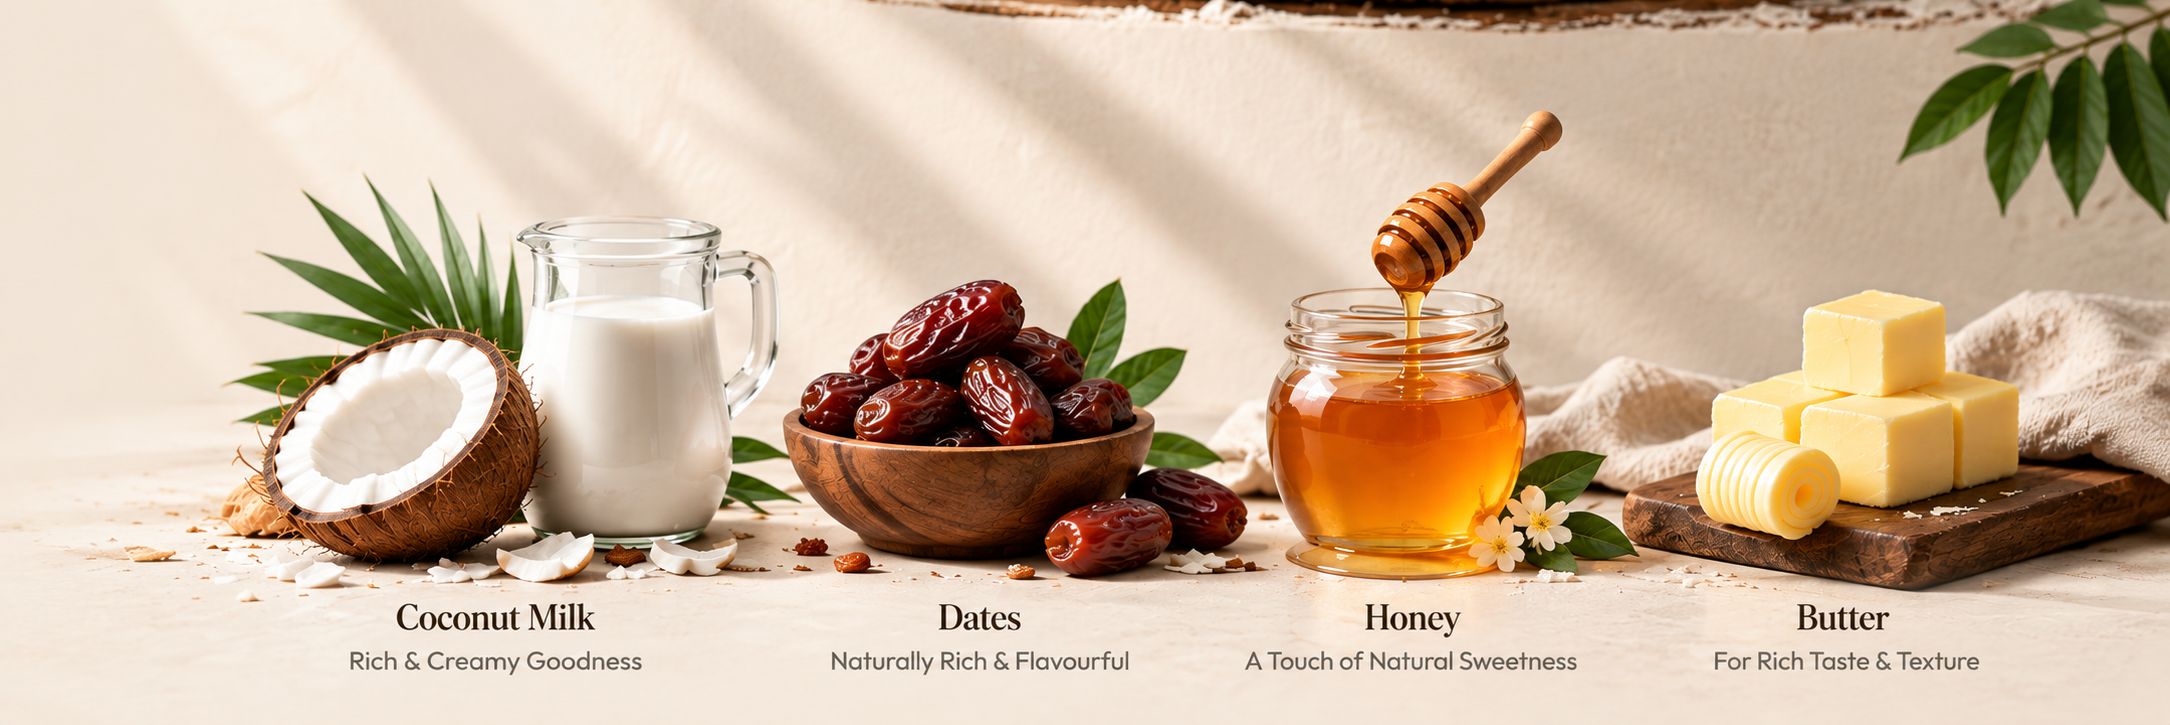
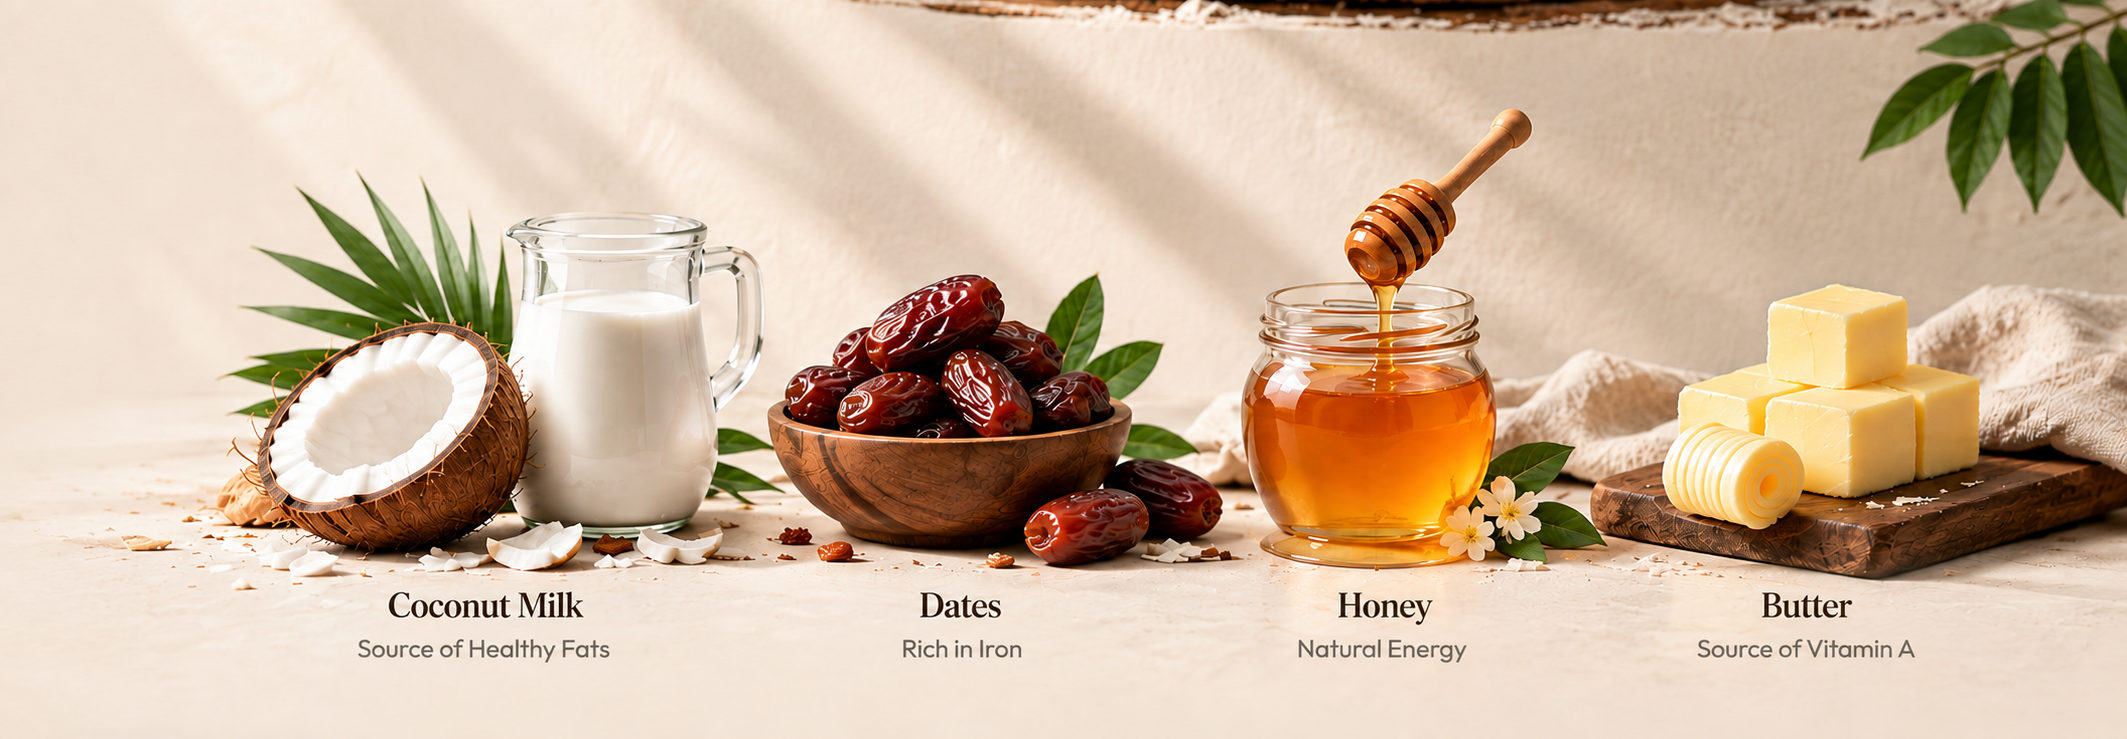
feat: Enhance TuniHome component with improved bread showcase and ingredient benefits; update styles for better responsiveness

diff --git a/src/styles/components/TuniHome.css b/src/styles/components/TuniHome.css
@@ -139,11 +139,11 @@
 .app-shell[data-theme="dark"] .lifestyle-section{background:#1a2b24}.app-shell[data-theme="dark"] .lifestyle-grid small{color:#b7c7c0}.app-shell[data-theme="dark"] .lifestyle-grid>div>span{background:#4a4226}.app-shell[data-theme="dark"] .final-cta{background:#071a14}
 
 /* Cinematic homepage hero and editorial introduction. */
-.tuni-film{position:relative;isolation:isolate;overflow:hidden;box-sizing:border-box;min-height:680px;height:calc(100svh - 98px);max-height:900px;display:flex;align-items:center;padding:110px max(6vw,70px) 50px;background:#241e15;color:#fffdf8}
+.tuni-film{position:relative;isolation:isolate;overflow:hidden;box-sizing:border-box;min-height:min(680px,calc(100svh - 128px));height:calc(100svh - 128px);max-height:900px;display:flex;align-items:center;padding:110px max(6vw,70px) 50px;background:#241e15;color:#fffdf8}
 .tuni-film__media,.tuni-film__overlay{position:absolute;inset:0;pointer-events:none}
 .tuni-film__media{z-index:-2}
 .tuni-film__media video,.tuni-film__media img{display:block;width:100%;height:100%;object-fit:cover;object-position:center}
-.tuni-film__overlay{z-index:-1;background:linear-gradient(90deg,rgba(20,16,10,.70) 0%,rgba(20,16,10,.48) 42%,rgba(20,16,10,.18) 72%,rgba(20,16,10,.10) 100%),linear-gradient(rgba(20,16,10,.08),rgba(20,16,10,.08))}
+.tuni-film__overlay{z-index:-1;background:linear-gradient(90deg,rgba(20,16,10,.52) 0%,rgba(20,16,10,.32) 42%,rgba(20,16,10,.08) 72%,rgba(20,16,10,.03) 100%)}
 .tuni-film__copy{width:min(650px,50vw);min-width:0;text-align:left}
 .tuni-film__label{display:block;margin-bottom:24px;font-size:14px;font-weight:600;letter-spacing:4px;color:#d7b36a}
 .tuni-home .tuni-film h1{font-size:clamp(56px,5.5vw,88px);font-weight:600;line-height:1.02;letter-spacing:-.045em;color:#fffdf8;text-shadow:0 2px 20px rgba(0,0,0,.18)}
@@ -166,8 +166,9 @@
 .tuni-philosophy__link:hover{color:#936821}
 .tuni-philosophy__link:focus-visible{outline:2px solid #173f32;outline-offset:5px}
 @media(min-width:901px) and (max-width:1200px){.tuni-home .tuni-film h1{font-size:clamp(56px,5.3vw,64px)}.tuni-film__copy{width:560px}}
-@media(max-width:900px){.tuni-film{height:600px;min-height:600px;padding:100px 6vw 50px}.tuni-film__copy{width:min(600px,100%)}.tuni-home .tuni-film h1{font-size:clamp(48px,7.3vw,66px)}}
-@media(max-width:640px){.tuni-film{height:640px;min-height:620px;max-height:none;align-items:flex-end;padding:70px 24px 48px}.tuni-film__media video,.tuni-film__media img{object-position:60% center}.tuni-film__overlay{background:linear-gradient(0deg,rgba(20,16,10,.82),rgba(20,16,10,.52) 55%,rgba(20,16,10,.12)),linear-gradient(90deg,rgba(20,16,10,.20),transparent)}.tuni-film__copy{width:100%}.tuni-film__label{margin-bottom:20px;font-size:13px}.tuni-home .tuni-film h1{font-size:clamp(36px,9.8vw,54px);letter-spacing:-.05em}.tuni-film__copy>p{font-size:17px;margin:22px 0 26px;max-width:440px}.tuni-film__actions{flex-direction:column;max-width:360px;gap:12px}.tuni-film__actions .tuni-btn{justify-content:space-between;width:100%}.tuni-philosophy{padding:52px 24px}.tuni-philosophy p{font-size:15px}.tuni-philosophy__ingredients{font-size:10px;letter-spacing:1px}.tuni-philosophy__ingredients li+li::before{padding:0 8px}}
+@media(max-width:1150px){.tuni-film{height:calc(100svh - 102px);min-height:min(600px,calc(100svh - 102px))}}
+@media(max-width:900px){.tuni-film{padding:100px 6vw 50px}.tuni-film__copy{width:min(600px,100%)}.tuni-home .tuni-film h1{font-size:clamp(48px,7.3vw,66px)}}
+@media(max-width:640px){.tuni-film{height:640px;min-height:620px;max-height:none;align-items:flex-end;padding:70px 24px 48px}.tuni-film__media video,.tuni-film__media img{object-position:60% center}.tuni-film__overlay{background:linear-gradient(0deg,rgba(20,16,10,.68),rgba(20,16,10,.35) 55%,rgba(20,16,10,.06)),linear-gradient(90deg,rgba(20,16,10,.12),transparent)}.tuni-film__copy{width:100%}.tuni-film__label{margin-bottom:20px;font-size:13px}.tuni-home .tuni-film h1{font-size:clamp(36px,9.8vw,54px);letter-spacing:-.05em}.tuni-film__copy>p{font-size:17px;margin:22px 0 26px;max-width:440px}.tuni-film__actions{flex-direction:column;max-width:360px;gap:12px}.tuni-film__actions .tuni-btn{justify-content:space-between;width:100%}.tuni-philosophy{padding:52px 24px}.tuni-philosophy p{font-size:15px}.tuni-philosophy__ingredients{font-size:10px;letter-spacing:1px}.tuni-philosophy__ingredients li+li::before{padding:0 8px}}
 @media(prefers-reduced-motion:reduce){.tuni-film__actions .tuni-btn,.tuni-philosophy__link{transition:none}.tuni-film__actions .tuni-btn:hover{transform:none}}
 
 /* Legacy photographic hero styles. */
@@ -229,26 +230,42 @@
 @media(max-width:760px){.tuni-brand-story{display:block;min-height:0;padding-top:230px;background-image:linear-gradient(180deg,rgba(23,79,62,0) 0%,rgba(23,79,62,.15) 120px,#174f3e 310px),var(--story-image);background-size:100% 100%,auto 340px;background-position:left top}.tuni-brand-story__panel{width:100%;padding:42px 6%;margin:0}.tuni-home .tuni-brand-story h2{font-size:clamp(2.5rem,8vw,3.4rem)}}
 @media(prefers-reduced-motion:reduce){.tuni-brand-story__cta svg{transition:none}}
 
-/* Compact editorial bread showcase; preserve the existing markup and assets. */
-#breads{padding:55px 6%;background:#f7f1e7}
-#breads .breads-grid{width:100%;max-width:1440px;margin:0 auto;grid-template-columns:.8fr 1fr 1fr;gap:30px;align-items:center}
-#breads .breads-intro{grid-column:auto;align-items:flex-start;text-align:left;padding:0}
-#breads .breads-intro .eyebrow{margin-bottom:14px}
-#breads .breads-intro h2{font-size:clamp(2.3rem,3.3vw,3.6rem);line-height:1.04}
-#breads .breads-intro p{margin:18px 0 22px;font-size:.95rem;line-height:1.6}
-#breads .breads-intro .tuni-btn{padding:12px 18px;font-size:.9rem}
-#breads .bread-card{align-self:stretch;background:transparent;box-shadow:none;border:0;border-left:1px solid rgba(59,33,24,.16);border-radius:0;padding-left:30px;overflow:visible}
-#breads .bread-card__image{width:100%;height:210px;border-radius:24px 24px 6px 6px;overflow:hidden;background:transparent}
-#breads .bread-card__image img{display:block;width:100%;height:100%;object-fit:cover;padding:0}
-#breads .bread-card>div:last-child{padding:12px 0 0}
-#breads .bread-number{color:#c9933a;font-size:.68rem}
-#breads .bread-card h3{font-size:1.65rem;margin:5px 0 8px;line-height:1.1}
-#breads .bread-card p{min-height:0;margin:0 0 12px;font-size:.85rem;line-height:1.5}
-#breads .bread-card button{font-size:.88rem}
+/* Premium editorial bread showcase. */
+#breads{position:relative;padding:64px clamp(24px,4.5vw,76px);background:#f7f1e7;overflow:hidden}
+#breads::before,#breads::after{content:'';position:absolute;width:180px;height:260px;opacity:.07;pointer-events:none;background:radial-gradient(ellipse at center,#477364 0 28%,transparent 30%);background-size:52px 78px;transform:rotate(-24deg)}
+#breads::before{left:-96px;top:35px}#breads::after{right:-120px;bottom:-70px;transform:rotate(26deg)}
+#breads .breads-grid{position:relative;z-index:1;width:100%;max-width:1500px;margin:0 auto;grid-template-columns:minmax(250px,30fr) minmax(0,35fr) minmax(0,35fr);gap:24px;align-items:stretch}
+#breads .breads-intro{grid-column:auto;align-items:flex-start;text-align:left;justify-content:center;padding:28px clamp(4px,1vw,18px) 28px 0}
+#breads .breads-intro .eyebrow{margin-bottom:18px;color:#c9933a}
+#breads .breads-intro h2{font-size:clamp(3.1rem,4vw,4.7rem);line-height:.86;letter-spacing:-.04em;color:#173f32}
+#breads .breads-intro>p{max-width:390px;margin:24px 0;color:#55534e;font-size:.94rem;line-height:1.55}
+#breads .breads-intro__values{display:grid;grid-template-columns:repeat(3,minmax(0,1fr));width:100%;max-width:405px;gap:10px;margin:2px 0 28px}
+#breads .breads-intro__values>span{display:grid;justify-items:center;align-content:start;gap:8px;text-align:center;color:#35483f}
+#breads .breads-intro__values i{display:grid;place-items:center;width:50px;height:50px;border:1px solid rgba(201,147,58,.72);border-radius:50%;color:#173f32;font-style:normal}
+#breads .breads-intro__values small{font-size:.7rem;line-height:1.3}
+#breads .breads-intro .tuni-btn{padding:14px 24px;border-radius:999px;font-size:.88rem}
+#breads .bread-card{display:flex;flex-direction:column;align-self:stretch;min-width:0;padding:12px;background:#fffdf8;border:1px solid rgba(201,147,58,.18);border-radius:24px;overflow:hidden;box-shadow:0 12px 34px rgba(45,40,26,.06);transition:transform .28s ease,box-shadow .28s ease}
+#breads .bread-card:hover{transform:translateY(-4px);box-shadow:0 16px 38px rgba(45,40,26,.09)}
+#breads .bread-card__image{position:relative;width:100%;height:300px;border-radius:18px;overflow:hidden;background:#f3eee4}
+#breads .bread-card__image img{display:block;width:100%;height:100%;object-fit:cover;object-position:center;padding:0;transition:transform .28s ease}
+#breads .bread-card:hover .bread-card__image img{transform:scale(1.02)}
+#breads .bread-number{position:absolute;z-index:2;left:18px;top:15px;color:#b6812d;font-size:.78rem;font-weight:600;letter-spacing:.14em}
+#breads .bread-card__badge{position:absolute;z-index:2;right:14px;top:14px;display:grid;place-items:center;width:66px;height:66px;box-sizing:border-box;border:1px solid rgba(201,147,58,.75);border-radius:50%;background:rgba(255,253,248,.94);color:#173f32;font-size:.57rem;font-weight:700;line-height:1.1;text-align:center;text-transform:uppercase}
+#breads .bread-card__badge svg{color:#477364}
+#breads .bread-card__content{display:flex;flex:1;flex-direction:column;padding:18px 8px 4px}
+#breads .bread-card h3{font-size:clamp(1.75rem,2.2vw,2.2rem);margin:0 0 7px;line-height:1.05;color:#173f32}
+#breads .bread-card p{min-height:0;margin:0;color:#55534e;font-size:.82rem;line-height:1.45}
+#breads .bread-card__highlights{display:grid;grid-template-columns:repeat(3,minmax(0,1fr));gap:0;margin:18px 0 14px;border-top:1px solid rgba(201,147,58,.14);border-bottom:1px solid rgba(201,147,58,.14)}
+#breads .bread-card__highlights span{display:flex;align-items:center;gap:7px;min-width:0;padding:12px 8px;border-right:1px solid rgba(201,147,58,.18);color:#48544e;font-size:.64rem;line-height:1.25}
+#breads .bread-card__highlights span:last-child{border-right:0}
+#breads .bread-card__highlights svg{flex:0 0 auto;color:#b6812d}
+#breads .bread-card button{font-size:.82rem}
 .app-shell[data-theme="dark"] #breads{background:#111d19}
-.app-shell[data-theme="dark"] #breads .bread-card{border-color:rgba(247,241,231,.2)}
-@media(max-width:1000px){#breads .breads-grid{grid-template-columns:1fr 1fr;gap:28px}#breads .breads-intro{grid-column:1/-1;align-items:center;text-align:center;max-width:600px;margin:0 auto}#breads .bread-card{padding-left:0;border-left:0}#breads .bread-card:last-child{padding-left:28px;border-left:1px solid rgba(59,33,24,.16)}}
-@media(max-width:640px){#breads{padding:40px 6%}#breads .breads-grid{grid-template-columns:1fr;gap:26px}#breads .breads-intro h2{font-size:2.4rem}#breads .bread-card,#breads .bread-card:last-child{padding:24px 0 0;border-left:0;border-top:1px solid rgba(59,33,24,.16)}#breads .bread-card__image{height:220px}}
+.app-shell[data-theme="dark"] #breads .bread-card{background:#1b2b25;border-color:rgba(247,241,231,.2)}
+.app-shell[data-theme="dark"] #breads .breads-intro h2,.app-shell[data-theme="dark"] #breads .bread-card h3{color:#edf5f0}
+.app-shell[data-theme="dark"] #breads .breads-intro>p,.app-shell[data-theme="dark"] #breads .bread-card p,.app-shell[data-theme="dark"] #breads .bread-card__highlights span,.app-shell[data-theme="dark"] #breads .breads-intro__values>span{color:#b7c7c0}
+@media(max-width:1050px){#breads .breads-grid{grid-template-columns:1fr 1fr;gap:24px}#breads .breads-intro{grid-column:1/-1;align-items:center;text-align:center;max-width:720px;margin:0 auto;padding:0 0 14px}#breads .breads-intro>p{max-width:600px}#breads .bread-card__image{height:280px}}
+@media(max-width:680px){#breads{padding:46px 20px}#breads .breads-grid{grid-template-columns:1fr;gap:24px}#breads .breads-intro h2{font-size:clamp(2.8rem,14vw,4rem)}#breads .breads-intro__values{gap:5px}#breads .breads-intro__values i{width:46px;height:46px}#breads .breads-intro__values small{font-size:.64rem}#breads .bread-card{border-radius:20px;padding:10px}#breads .bread-card__image{height:clamp(230px,68vw,280px)}#breads .bread-card__content{padding:18px 5px 5px}#breads .bread-card__highlights span{padding:11px 5px;font-size:.59rem;gap:4px}}
 
 /* Match Our Promise to the forest-green palette of Our Story. */
 #quality,#quality .quality-copy{background:#174f3e;color:#f7f1e7}
@@ -262,8 +279,8 @@
 #quality .quality-photo::after{background:linear-gradient(90deg,rgba(23,79,62,0) 0%,rgba(23,79,62,.05) 35%,rgba(23,79,62,.4) 62%,rgba(23,79,62,.85) 84%,#174f3e 100%);pointer-events:none}
 @media(max-width:900px){#quality .quality-photo::after{background:linear-gradient(180deg,rgba(23,79,62,0) 0%,rgba(23,79,62,.05) 35%,rgba(23,79,62,.4) 62%,rgba(23,79,62,.85) 84%,#174f3e 100%)}}
 
-.bread-card__actions{display:flex;align-items:center;justify-content:space-between;gap:16px;flex-wrap:wrap;margin-top:18px}
-.bread-card .bread-card__add{display:inline-flex;justify-content:center;padding:12px 20px;border:1px solid #173f32;border-radius:6px;background:#173f32;color:#fffdf8;font-size:.85rem;line-height:1.3}
+.bread-card__actions{display:flex;align-items:center;justify-content:space-between;gap:16px;flex-wrap:wrap;margin-top:auto;padding-top:8px}
+.bread-card .bread-card__add{display:inline-flex;align-items:center;justify-content:center;padding:13px 20px;border:1px solid #173f32;border-radius:14px;background:#173f32;color:#fffdf8;font-size:.85rem;line-height:1.3;transition:transform .25s ease,background .25s ease}
 .bread-card .bread-card__add:hover{background:#245743}
 .bread-card .bread-card__add:disabled{opacity:.6;cursor:wait}
 .bread-card .bread-card__add:focus-visible{outline:2px solid #c9933a;outline-offset:3px}

diff --git a/src/components/TuniHome.jsx b/src/components/TuniHome.jsx
@@ -1,7 +1,7 @@
 import { useEffect, useState } from "react";
 import { apiRequest, getProductName } from "../lib/api";
 import {
-  ArrowRight, Ban, Droplets, Heart, Leaf,
+  ArrowRight, Ban, Droplets, Heart, Leaf, ShoppingCart,
   ShieldCheck, Sprout, Sun, Wheat as WheatIcon,
 } from "lucide-react";
 import heroVisual from "../asset/01_hero_product_bread.png";
@@ -61,7 +61,7 @@ export default function TuniHome({ register, onNavigate, whatsappNumber, onAddTo
     return () => preference.removeEventListener("change", update);
   }, []);
   const go = (page) => onNavigate(page);
-  const radialIngredients = [[coconutIngredient, "Coconut Milk", "Creamy richness"], [honeyIngredient, "Honey", "Golden sweetness"], [butterIngredient, "Butter", "Smooth texture"], [wheatIngredient, "Wheat", "Everyday grain"], [datesIngredient, "Dates", "Natural sweetness"]];
+  const radialIngredients = [[coconutIngredient, "Coconut Milk", "Source of Healthy Fats"], [honeyIngredient, "Honey", "Natural Energy"], [butterIngredient, "Butter", "Source of Vitamin A"], [wheatIngredient, "Wheat", "Rich in Fiber"], [datesIngredient, "Dates", "Rich in Iron"]];
   const ingredientBenefits = [[Leaf,"Wholesome Ingredients","Pure & Natural"],[Heart,"Better Nutrition","For a Healthier You"],[Sprout,"Tradition Meets Modern Living","A Perfect Balance"],[Sun,"Goodness in Every Slice","Everyday, Naturally"]];
   const nutrition = [["Energy", "277 kcal / 100g"], ["Carbohydrate", "58.7g"], ["Protein", "6.8g"], ["Dietary Fiber", "4g"], ["Total Sugar", "10g"], ["Fat", "2g"], ["Sodium", "0.3g"], ["Cholesterol", "0.00g"]];
   const qualities = ["No Vanaspati", "No Artificial Compromise", "No Class 2 & 3 Preservatives", "Carefully Selected Ingredients"];
@@ -111,9 +111,25 @@ export default function TuniHome({ register, onNavigate, whatsappNumber, onAddTo
     <section className="breads-section" id="breads" ref={register}>
       <div className="bread-cart-message" role="status" aria-live="polite">{cartMessage}</div>
       <div className="tuni-wrap breads-grid">
-        <div className="breads-intro"><span className="eyebrow">Our Breads</span><h2>Meet Tuni Breads.</h2><p>Two everyday favourites, baked with care for your family.</p><Button onClick={() => go("products")}>View Our Breads</Button></div>
-        <article className="bread-card"><div className="bread-card__image bread-card__image--wheat"><img src={wheatBreadImage} alt="Fresh sliced Tuni Wheat Bread" /></div><div><span className="bread-number">01</span><h3>Tuni Wheat Bread</h3><p>Wholesome wheat bread made for everyday meals.</p><div className="bread-card__actions"><button onClick={() => go("products")}>Know More <ArrowRight size={14}/></button><button className="bread-card__add" disabled={Boolean(addingBread)} onClick={() => addBread("wheat")} aria-label="Add Tuni wheat bread to cart">{addingBread === "wheat" ? "Adding…" : "Add to Cart"}</button></div></div></article>
-        <article className="bread-card"><div className="bread-card__image"><img src={whiteBreadImage} alt="Fresh sliced Tuni White Bread" /></div><div><span className="bread-number">02</span><h3>Tuni White Bread</h3><p>Soft, fresh bread perfect for toast, sandwiches and family meals.</p><div className="bread-card__actions"><button onClick={() => go("products")}>Know More <ArrowRight size={14}/></button><button className="bread-card__add" disabled={Boolean(addingBread)} onClick={() => addBread("white")} aria-label="Add Tuni white bread to cart">{addingBread === "white" ? "Adding…" : "Add to Cart"}</button></div></div></article>
+        <div className="breads-intro">
+          <span className="eyebrow">Our Breads</span>
+          <h2>Meet<br />Tuni Breads.</h2>
+          <p>Two everyday favourites, baked with care for your family. Wholesome, delicious and thoughtfully made for everyday meals.</p>
+          <div className="breads-intro__values" aria-label="Why families love Tuni Breads">
+            <span><i><Leaf size={21} aria-hidden="true" /></i><small>Soft &amp;<br />Delicious</small></span>
+            <span><i><Heart size={21} aria-hidden="true" /></i><small>Made with Thoughtful<br />Ingredients</small></span>
+            <span><i><WheatIcon size={21} aria-hidden="true" /></i><small>Perfect for<br />Everyday Meals</small></span>
+          </div>
+          <Button onClick={() => go("products")}>View Our Breads</Button>
+        </div>
+        <article className="bread-card">
+          <div className="bread-card__image bread-card__image--wheat"><span className="bread-number">01</span><span className="bread-card__badge"><Leaf size={18} aria-hidden="true" />Wheat<br />Goodness</span><img src={wheatBreadImage} alt="Fresh sliced Tuni Wheat Bread" /></div>
+          <div className="bread-card__content"><h3>Tuni Wheat Bread</h3><p>Wholesome wheat bread made for everyday meals.</p><div className="bread-card__highlights"><span><Leaf size={18} aria-hidden="true" />Wheat Goodness</span><span><Heart size={18} aria-hidden="true" />Wholesome Choice</span><span><WheatIcon size={18} aria-hidden="true" />Everyday Meal Friendly</span></div><div className="bread-card__actions"><button onClick={() => go("products")}>Know More <ArrowRight size={14}/></button><button className="bread-card__add" disabled={Boolean(addingBread)} onClick={() => addBread("wheat")} aria-label="Add Tuni wheat bread to cart"><ShoppingCart size={17} aria-hidden="true" />{addingBread === "wheat" ? "Adding…" : "Add to Cart"}</button></div></div>
+        </article>
+        <article className="bread-card">
+          <div className="bread-card__image"><span className="bread-number">02</span><span className="bread-card__badge"><Heart size={18} aria-hidden="true" />Soft<br />&amp; Fresh</span><img src={whiteBreadImage} alt="Fresh sliced Tuni White Bread" /></div>
+          <div className="bread-card__content"><h3>Tuni White Bread</h3><p>Soft, fresh bread perfect for toast, sandwiches and family meals.</p><div className="bread-card__highlights"><span><Leaf size={18} aria-hidden="true" />Soft Texture</span><span><Heart size={18} aria-hidden="true" />Light &amp; Delicious</span><span><WheatIcon size={18} aria-hidden="true" />Perfect for Everyday Meals</span></div><div className="bread-card__actions"><button onClick={() => go("products")}>Know More <ArrowRight size={14}/></button><button className="bread-card__add" disabled={Boolean(addingBread)} onClick={() => addBread("white")} aria-label="Add Tuni white bread to cart"><ShoppingCart size={17} aria-hidden="true" />{addingBread === "white" ? "Adding…" : "Add to Cart"}</button></div></div>
+        </article>
       </div>
     </section>
 

diff --git a/src/styles/components/IngredientOrbit.css b/src/styles/components/IngredientOrbit.css
@@ -12,9 +12,9 @@
 .ingredient-showcase .ingredient-orbit__item{padding:0;gap:0;color:#173f32}
 .ingredient-showcase .ingredient-orbit__photo{display:block;width:112px;height:112px;border-radius:50%;overflow:hidden;background:rgba(255,253,248,.92);border:1px solid rgba(201,147,58,.18);box-shadow:0 8px 30px rgba(40,30,15,.08)}
 .ingredient-showcase .ingredient-orbit__photo img{display:block;width:100%;height:100%;object-fit:cover}
-.ingredient-showcase .ingredient-orbit__label{position:relative;display:grid;gap:3px;min-width:124px;margin-top:-5px;padding:7px 9px;border-radius:28px;background:rgba(255,253,248,.96)}
-.ingredient-showcase .ingredient-orbit__label strong{font-family:'Cormorant Garamond',Georgia,serif;font-size:1.1rem;font-weight:700;color:#173f32}
-.ingredient-showcase .ingredient-orbit__label small{font-size:.7rem;color:#68706a}
+.ingredient-showcase .ingredient-orbit__label{position:relative;display:grid;gap:4px;min-width:145px;margin-top:-5px;padding:7px 9px;border-radius:28px;background:rgba(255,253,248,.96)}
+.ingredient-showcase .ingredient-orbit__label strong{font-family:'Cormorant Garamond',Georgia,serif;font-size:1.1rem;font-weight:600;color:#173f32}
+.ingredient-showcase .ingredient-orbit__label small{font-family:'Outfit',Arial,sans-serif;font-size:.78rem;font-weight:400;line-height:1.2;color:#68706a;white-space:nowrap}
 .ingredient-showcase .ingredient-orbit__item:hover,.ingredient-showcase .ingredient-orbit__item:focus-visible{transform:scale(1.05);background:transparent;box-shadow:0 4px 24px rgba(201,147,58,.12)}
 .ingredient-showcase .ingredient-orbit__item:hover .ingredient-orbit__label,.ingredient-showcase .ingredient-orbit__item:focus-visible .ingredient-orbit__label{background:#fbf1dc}
 .ingredient-showcase .ingredient-orbit__rotor,.ingredient-showcase .ingredient-orbit__upright{will-change:transform}
@@ -57,7 +57,7 @@
   .ingredient-showcase .ingredient-orbit__photo{width:62px;height:62px}
   .ingredient-showcase .ingredient-orbit__label{min-width:0;width:94px;box-sizing:border-box;padding:5px 2px}
   .ingredient-showcase .ingredient-orbit__label strong{font-size:.85rem}
-  .ingredient-showcase .ingredient-orbit__label small{font-size:.58rem}
+  .ingredient-showcase .ingredient-orbit__label small{font-size:.58rem;white-space:normal}
 }
 @media(prefers-reduced-motion:reduce){
   .ingredient-showcase .ingredient-orbit__rotor,.ingredient-showcase .ingredient-orbit__upright{animation:none;will-change:auto}
